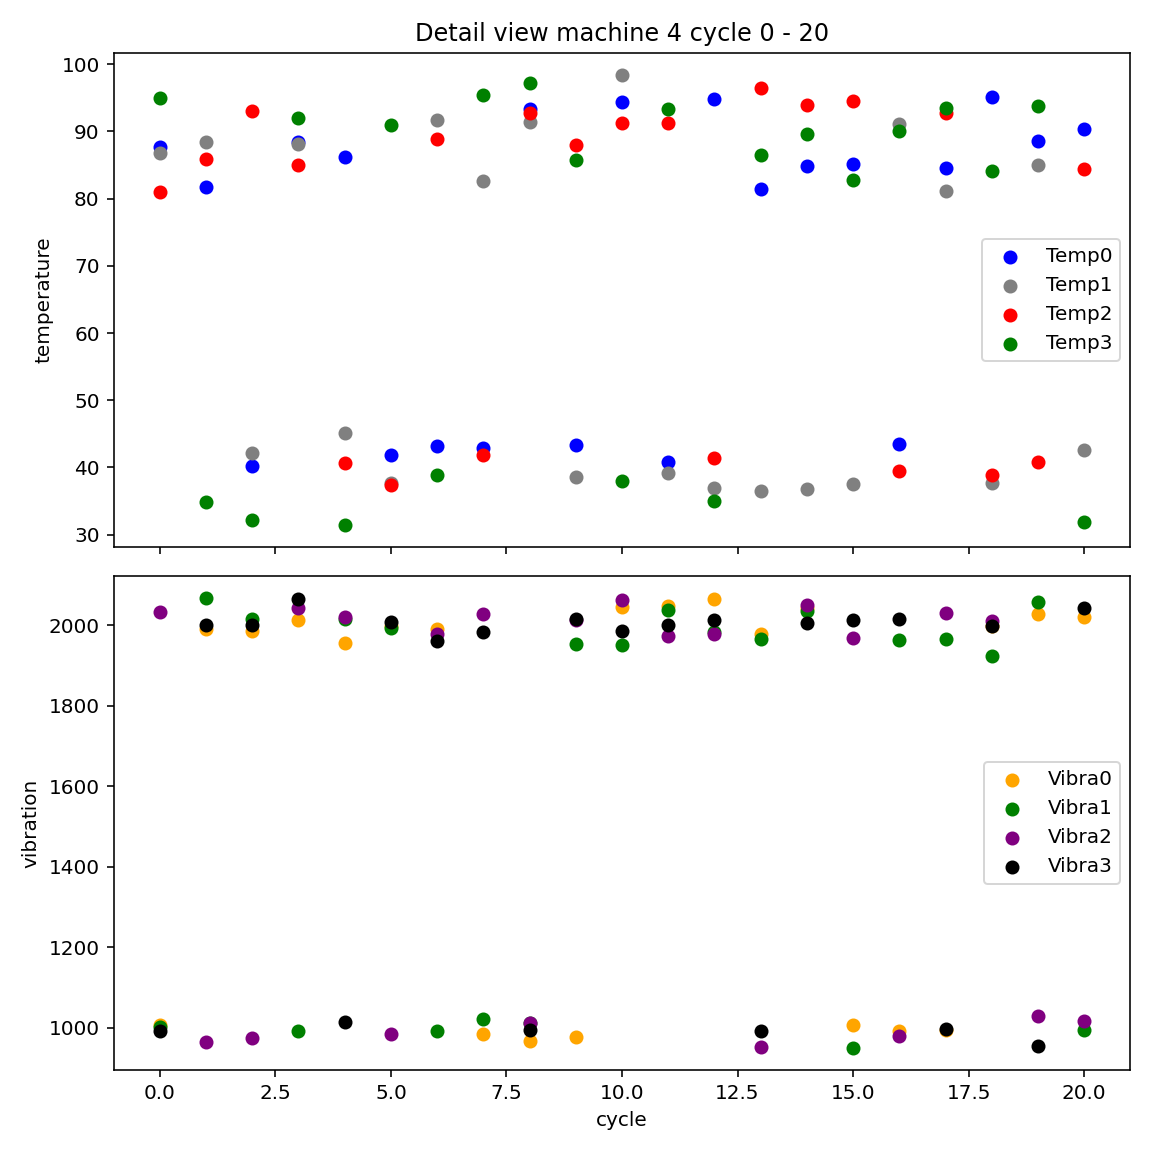
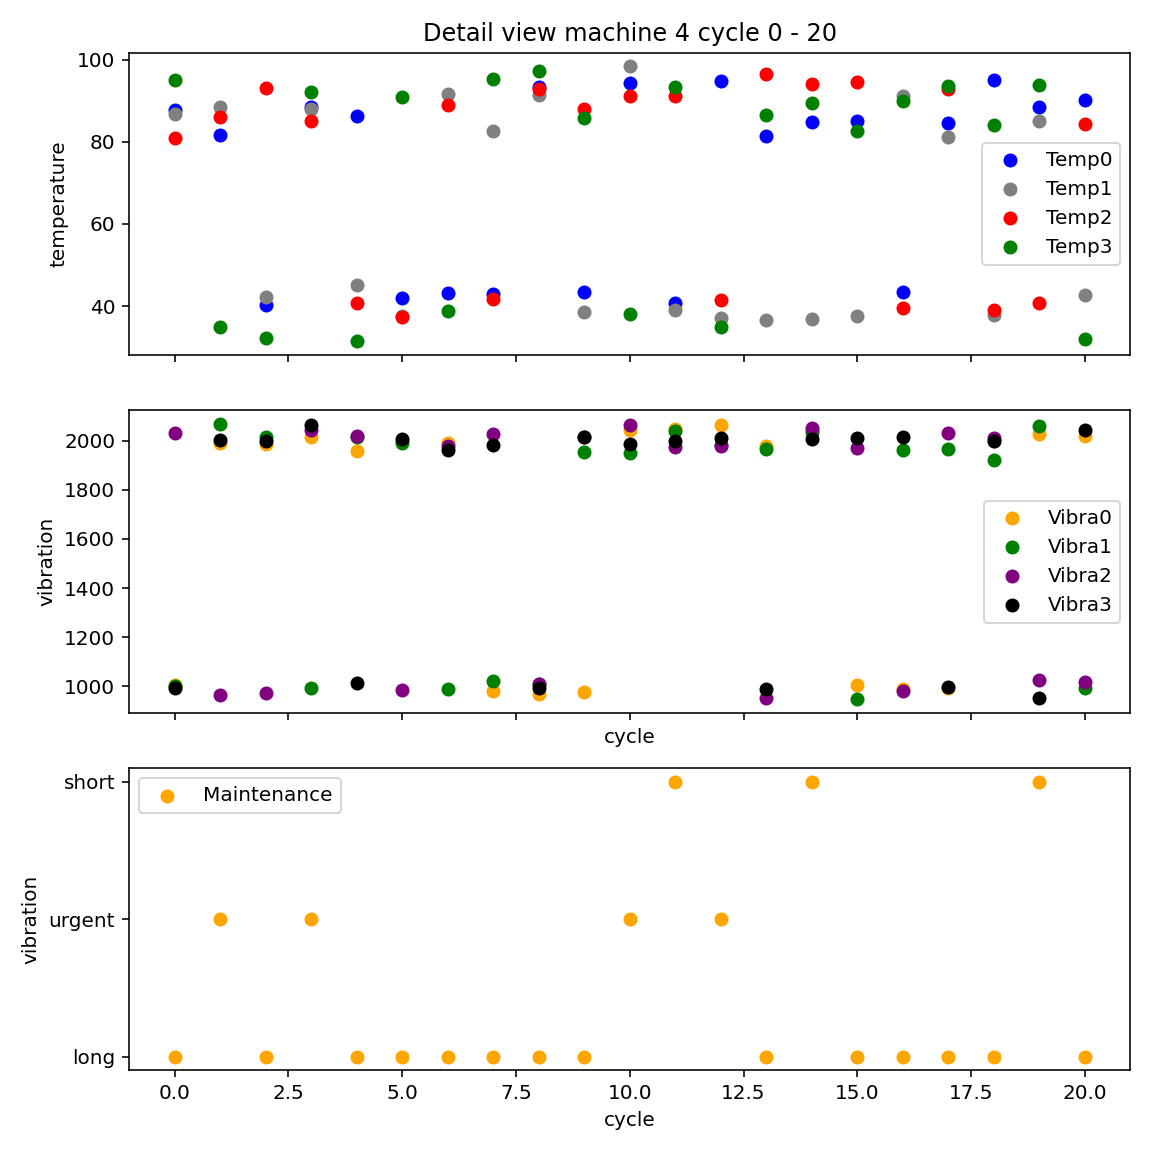
additional Classification method

diff --git a/case 2_1/instructions_case2.py b/case 2_1/instructions_case2.py
@@ -3,9 +3,10 @@ import pandas as pd
 import numpy as np
 import matplotlib.pyplot as plt
 from sklearn.metrics import ConfusionMatrixDisplay
+import seaborn as sns
 
 #%%
-num_machines_to_read = 5
+num_machines_to_read = 20
 
 df_train = pd.DataFrame()
 
@@ -35,46 +36,122 @@ for u_num in unit_numbers_train:
     df_train_reverted = df_temp
 
 #%%
+'''
+    calculates label for machine dataset and defines if maintenance is urgent or needed in short-term or in long-term
+    
+    parameters:
+        df (pd.Dataframe): data which has to be labeled
+        method: defines method of labeling --> basic (just on thresholds), advanced (combination of threshold and historic data)
+    
+    requirements
+        df has to provide several columns
+        
+    output:
+        Dataframe, enriched with column 'Label' (or in case Label already exists: with updated values for this column)
+            
+'''
+def labeling(df,method):
+    if {'Cycle','TempSensor0','TempSensor1','TempSensor2','TempSensor3','VibraSensor0','VibraSensor1','VibraSensor2','VibraSensor3'}.issubset(set(df.columns)):
+        if method == 'basic':
+            # long -> all valid data ...
+            df.loc[
+                df["Cycle"] >= 0
+                                  , "Label"] = "long"
+
+            # short -> .. except Temp > 87.5 or Vibration > 1970 
+            threshold_short_temp= 97.5 #91.5 # ~ upper quantil
+            threshold_short_vibration = 2045 #2008 # ~ upper quantil
+            df.loc[
+                (df["TempSensor0"] > threshold_short_temp)
+                | (df["TempSensor1"] > threshold_short_temp)
+                | (df["TempSensor2"] > threshold_short_temp)
+                | (df["TempSensor3"] > threshold_short_temp)
+                | (df["VibraSensor0"] > threshold_short_vibration) 
+                | (df["VibraSensor1"] > threshold_short_vibration) 
+                | (df["VibraSensor2"] > threshold_short_vibration) 
+                | (df["VibraSensor3"] > threshold_short_vibration) 
+                                  , "Label"] = "short"
+
+            # urgent -> .. except Temp > 90 or Vibration > 1980 
+            threshold_urgent_temp= 100
+            threshold_urgent_vibration = 2060
+            df.loc[
+                (df["TempSensor0"] > threshold_urgent_temp)
+                | (df["TempSensor1"] > threshold_urgent_temp)
+                | (df["TempSensor2"] > threshold_urgent_temp)
+                | (df["TempSensor3"] > threshold_urgent_temp)
+                | (df["VibraSensor0"] > threshold_urgent_vibration) 
+                | (df["VibraSensor1"] > threshold_urgent_vibration) 
+                | (df["VibraSensor2"] > threshold_urgent_vibration) 
+                | (df["VibraSensor3"] > threshold_urgent_vibration) 
+                                  , "Label"] = "urgent"
+        elif method == 'advanced':
+            # long -> all valid data ...
+            df.loc[
+                df["Cycle"] >= 0
+                                  , "Label"] = "long"
+            
+            # short -> .. except Temp > 87.5 or Vibration > 1970 
+            threshold_low_temp= 95 #97.5 #91.5 # ~ upper quantil
+            threshold_low_vibration = 2030 #2045 #2008 # ~ upper quantil
+            
+            threshold_high_temp= 98 #100
+            threshold_high_vibration = 2050 #2060
+            
+            df['LabelScore'] = 0
+            
+            for col in ["TempSensor0","TempSensor1","TempSensor2","TempSensor3"]:
+                df.loc[df[col] > threshold_low_temp,'LabelScore'] += 1
+                df.loc[df[col] > threshold_high_temp,'LabelScore'] += 1
+            
+            for col in ["VibraSensor0","VibraSensor1","VibraSensor2","VibraSensor3"]:
+                df.loc[df[col] > threshold_low_vibration,'LabelScore'] += 10
+                df.loc[df[col] > threshold_high_vibration,'LabelScore'] += 10
+                
+            # short if 1 sensor is > threshold_urgent and at least 1 more sensor is at least threshold_short 
+            # or if at least 3 sensors are > threshold_short
+            df.loc[
+                (df["LabelScore"] % 10 >= 3)
+                | (df["LabelScore"] >= 30)
+                                 , "Label"] = "short"
+            
+            df['Label_1'] = df.groupby('Machine')['Label'].shift(1)
+            df['Label_2'] = df.groupby('Machine')['Label'].shift(2)
+            
+            # urgent -> at least 2 out of last 3 datasets show short  
+            
+            df.loc[
+                ((df["Label"] == 'short') & (df["Label_1"] == 'short'))
+                | ((df["Label"] == 'short') & (df["Label_2"] == 'short'))
+                | ((df["Label_1"] == 'short') & (df["Label_2"] == 'short'))
+                                  , "Label"] = "urgent"
+            
+            # remove unnecessary columns
+            for c in ['LabelScore','Label_1','Label_2']:
+                del df[c]
+            
+        print(df)
+        print(df.groupby('Label').count())    
+        return df                                                          
+    else:
+        print('provided dataframe doesnt have required columns')
+        return df
+
+#%%
+
+
+#Label the data -> in this example all the data has the same label; you have to change this !!
 df_train_reverted = df_train_reverted.reset_index(drop=True)
 
 df_train_reverted["Label"] = df_train_reverted.apply(lambda _: "", axis=1)
 
+df_train_reverted = labeling(df=df_train_reverted,method='advanced')
+
+#%%
+
+
 #Label the data -> in this example all the data has the same label; you have to change this !!
-# long -> all valid data ...
-df_train_reverted.loc[
-    df_train_reverted["Cycle"] >= 0
-                      , "Label"] = "long"
 
-# short -> .. except Temp > 87.5 or Vibration > 1970 
-threshold_short_temp= 97.5 #91.5 # ~ upper quantil
-threshold_short_vibration = 2045 #2008 # ~ upper quantil
-df_train_reverted.loc[
-    (df_train_reverted["TempSensor0"] > threshold_short_temp)
-    | (df_train_reverted["TempSensor1"] > threshold_short_temp)
-    | (df_train_reverted["TempSensor2"] > threshold_short_temp)
-    | (df_train_reverted["TempSensor3"] > threshold_short_temp)
-    | (df_train_reverted["VibraSensor0"] > threshold_short_vibration) 
-    | (df_train_reverted["VibraSensor1"] > threshold_short_vibration) 
-    | (df_train_reverted["VibraSensor2"] > threshold_short_vibration) 
-    | (df_train_reverted["VibraSensor3"] > threshold_short_vibration) 
-                      , "Label"] = "short"
-
-# urgent -> .. except Temp > 90 or Vibration > 1980 
-threshold_urgent_temp= 100
-threshold_urgent_vibration = 2060
-df_train_reverted.loc[
-    (df_train_reverted["TempSensor0"] > threshold_urgent_temp)
-    | (df_train_reverted["TempSensor1"] > threshold_urgent_temp)
-    | (df_train_reverted["TempSensor2"] > threshold_urgent_temp)
-    | (df_train_reverted["TempSensor3"] > threshold_urgent_temp)
-    | (df_train_reverted["VibraSensor0"] > threshold_urgent_vibration) 
-    | (df_train_reverted["VibraSensor1"] > threshold_urgent_vibration) 
-    | (df_train_reverted["VibraSensor2"] > threshold_urgent_vibration) 
-    | (df_train_reverted["VibraSensor3"] > threshold_urgent_vibration) 
-                      , "Label"] = "urgent"
-
-print(df_train_reverted)
-print(df_train_reverted.groupby('Label').count())
 
 
 #%% show details of df_train_reverted
@@ -82,7 +159,7 @@ print(df_train_reverted.groupby('Label').count())
 threshold = 20
 df_plot = df_train_reverted[df_train_reverted['Cycle']<=threshold]
 # 2 Zeilen, 1 Spalte
-fig, axes = plt.subplots(2, 1, figsize=(8, 8), sharex=True)
+fig, axes = plt.subplots(3, 1, figsize=(8, 8), sharex=True)
 # 🔹 Oberes Diagramm: Originaldaten
 axes[0].scatter(df_plot.index, df_plot["TempSensor0"], label="Temp0", color='blue')
 axes[0].scatter(df_plot.index, df_plot["TempSensor1"], label="Temp1", color='grey')
@@ -100,12 +177,19 @@ axes[1].scatter(df_plot.index, df_plot['VibraSensor3'], label="Vibra3", color='b
 axes[1].set_ylabel("vibration")
 axes[1].set_xlabel("cycle")
 axes[1].legend()
+
+axes[2].scatter(df_plot.index, df_plot['Label'], label="Maintenance", color='orange')
+axes[2].set_ylabel("vibration")
+axes[2].set_xlabel("cycle")
+axes[2].legend()
+
 plt.tight_layout()
 
 output_dir = "plots"
 name_pattern = "00_exploring_"     
 plt.savefig(f"{output_dir}\{name_pattern}_{title}.png")
 plt.show()
+
 #%%
 # Do some Preprocessing to get better results (e.g. Rolling Average)
 # ADD Preprocessing Code here
